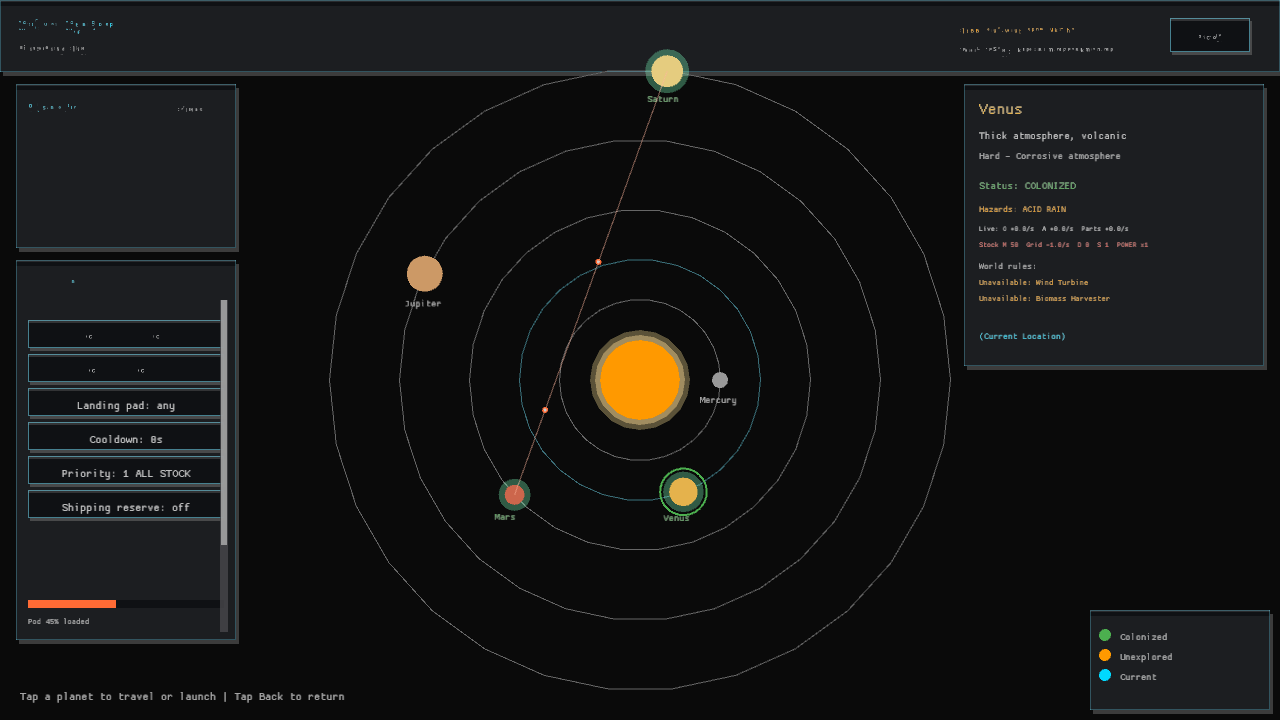
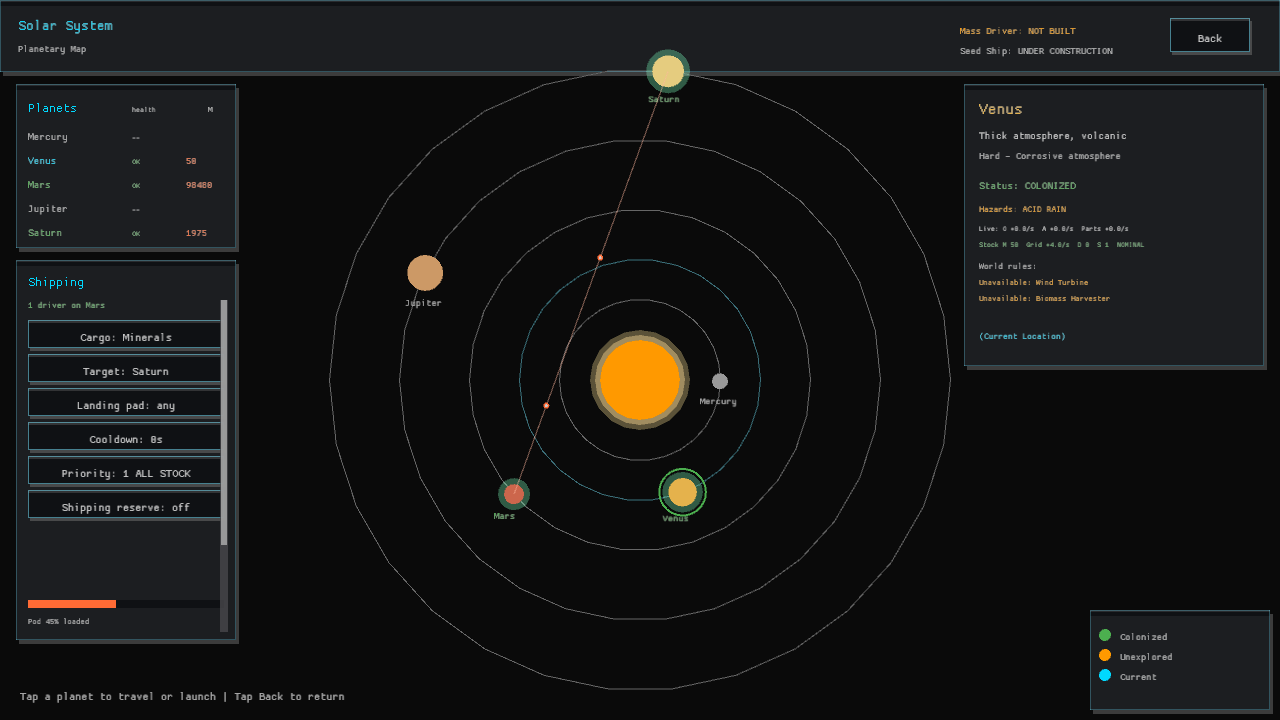
The map flashes a world's health before the swarm travels (remote alert scan, GDD 4)

diff --git a/src/screens/interplanetary_view.rs b/src/screens/interplanetary_view.rs
@@ -268,7 +268,8 @@ fn draw_planet_list(
 ) -> (Option<usize>, InterplanetaryAction) {
     draw_panel(x, y, w, h);
     draw_ui_text("Planets", x + 12.0, y + 28.0, 16.0, Colors::PRIMARY);
-    draw_ui_text("minerals", x + w - 58.0, y + 28.0, 10.0, Colors::TEXT_DIM);
+    draw_ui_text("health", x + w - 104.0, y + 28.0, 9.0, Colors::TEXT_DIM);
+    draw_ui_text("M", x + w - 28.0, y + 28.0, 10.0, Colors::TEXT_DIM);
 
     let mut focused = None;
     let mut action = InterplanetaryAction::None;
@@ -300,10 +301,19 @@ fn draw_planet_list(
             Colors::TEXT_DIM
         };
         draw_ui_text(&planet.name, x + 12.0, row_y, 13.0, label_color);
+        let telemetry = view.telemetry.get(index).copied().flatten();
+        let alert_code = world_alert_code(telemetry);
+        draw_ui_text(
+            &alert_code,
+            x + w - 104.0,
+            row_y,
+            9.0,
+            world_alert_color(telemetry),
+        );
         if let Some(Some(minerals)) = view.stockpiles.get(index) {
             draw_ui_text(
                 &format!("{:.0}", minerals),
-                x + w - 58.0,
+                x + w - 50.0,
                 row_y,
                 12.0,
                 Colors::ACCENT,
@@ -487,6 +497,36 @@ fn draw_world_telemetry(telemetry: &WorldTelemetry, x: f32, y: f32) {
         9.0,
         health.1,
     );
+}
+
+fn world_alert_code(telemetry: Option<WorldTelemetry>) -> String {
+    let Some(telemetry) = telemetry else {
+        return "--".to_string();
+    };
+    let code = match telemetry.alert_kind {
+        WorldAlert::Nominal => "OK",
+        WorldAlert::Collapse => "COLL",
+        WorldAlert::Power => "PWR",
+        WorldAlert::Hibernation => "SLEEP",
+        WorldAlert::Stalled => "STALL",
+        WorldAlert::Starved => "INPUT",
+        WorldAlert::Blocked => "FULL",
+    };
+    if telemetry.alerts > 1 {
+        format!("{} x{}", code, telemetry.alerts)
+    } else {
+        code.to_string()
+    }
+}
+
+fn world_alert_color(telemetry: Option<WorldTelemetry>) -> Color {
+    if telemetry.is_some_and(|telemetry| telemetry.alerts > 0) {
+        Colors::ERROR
+    } else if telemetry.is_some() {
+        Colors::SUCCESS
+    } else {
+        Colors::TEXT_DIM
+    }
 }
 
 fn hazard_summary(planet: &crate::data::PlanetDef) -> String {

diff --git a/src/screens/interplanetary_view/tests.rs b/src/screens/interplanetary_view/tests.rs
@@ -1,4 +1,35 @@
-use super::world_rule_lines;
+use super::{world_alert_code, world_rule_lines};
+
+fn telemetry(alerts: usize, alert_kind: crate::state::WorldAlert) -> crate::state::WorldTelemetry {
+    crate::state::WorldTelemetry {
+        minerals: 0.0,
+        ore_rate: 0.0,
+        alloy_rate: 0.0,
+        components_rate: 0.0,
+        power_balance: 0.0,
+        structures: 0,
+        drones: 0,
+        alerts,
+        alert_kind,
+    }
+}
+
+#[test]
+fn planet_list_alert_codes_keep_remote_failures_scannable() {
+    assert_eq!(world_alert_code(None), "--");
+    assert_eq!(
+        world_alert_code(Some(telemetry(0, crate::state::WorldAlert::Nominal))),
+        "OK"
+    );
+    assert_eq!(
+        world_alert_code(Some(telemetry(1, crate::state::WorldAlert::Power))),
+        "PWR"
+    );
+    assert_eq!(
+        world_alert_code(Some(telemetry(3, crate::state::WorldAlert::Collapse))),
+        "COLL x3"
+    );
+}
 
 #[test]
 fn dossier_rules_explain_buildings_a_world_will_not_accept() {
